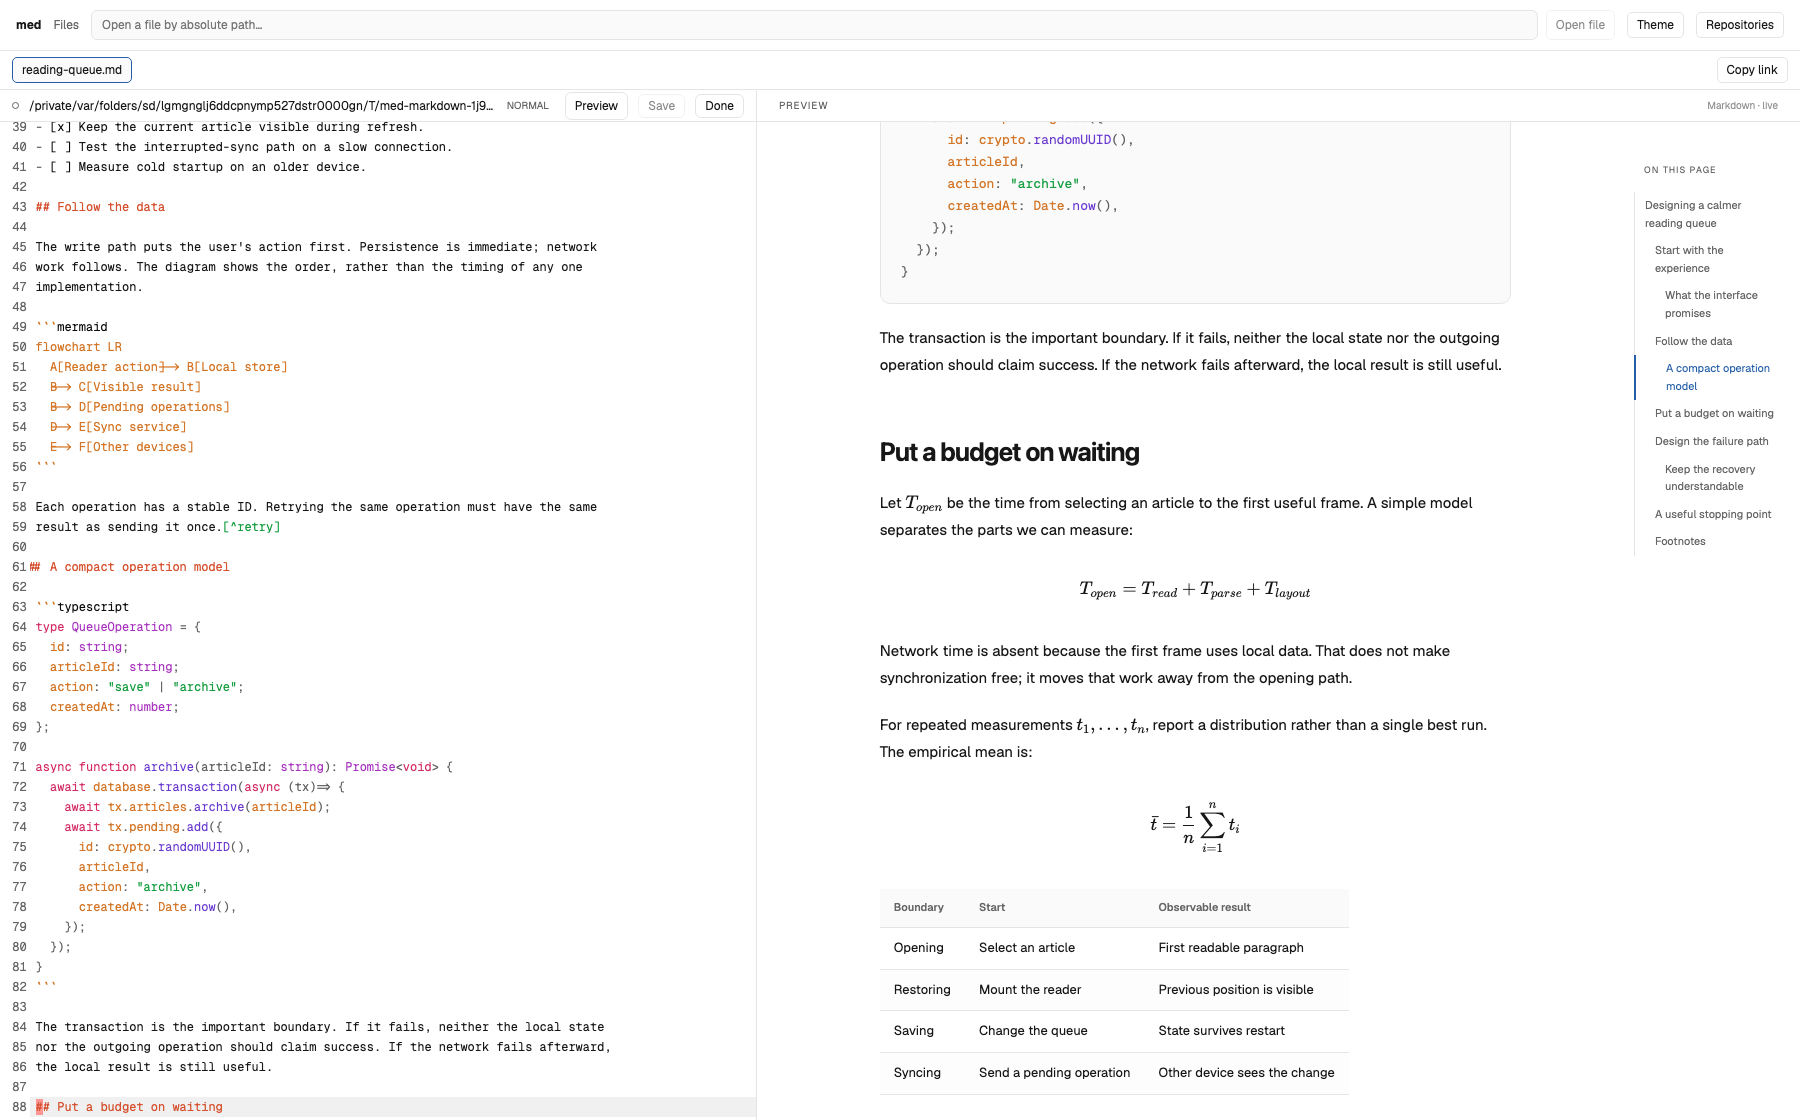
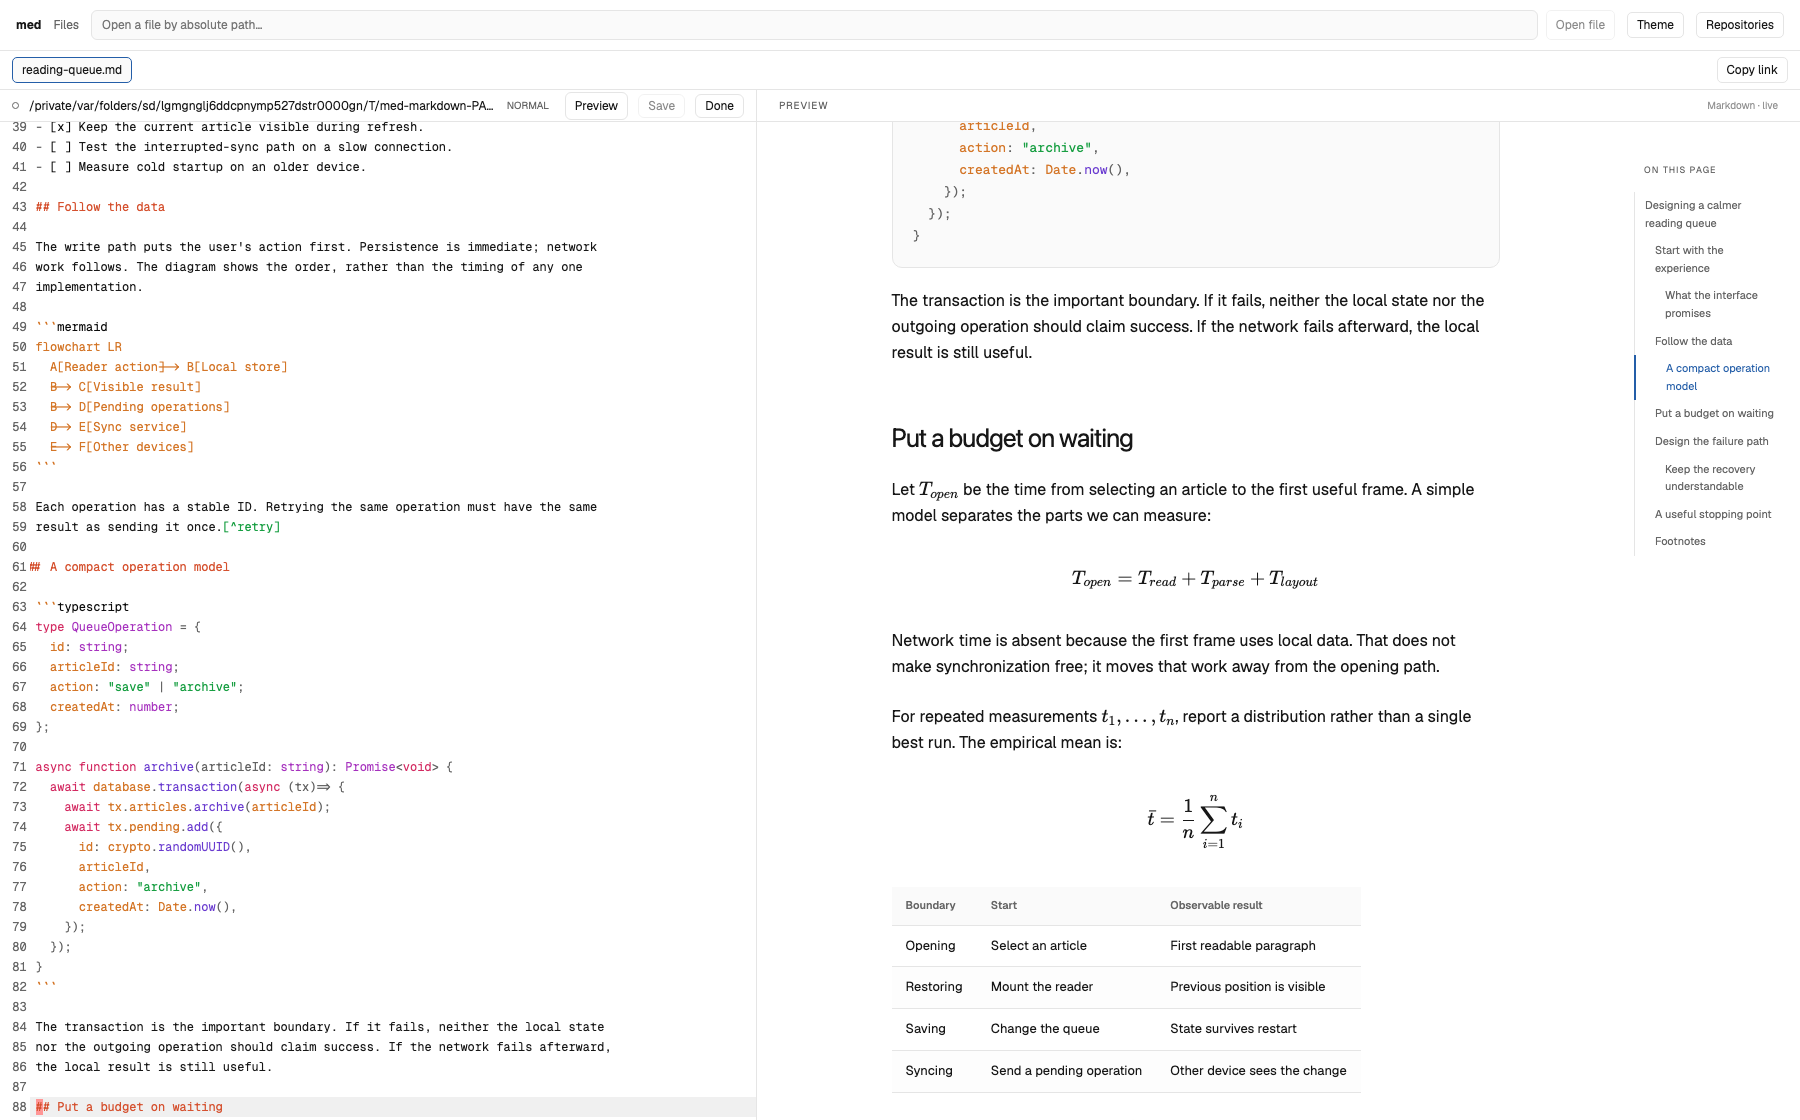
style(med): refine Markdown typography and reading width

diff --git a/apps/med/src/web/components/MarkdownPreview.css b/apps/med/src/web/components/MarkdownPreview.css
@@ -60,40 +60,43 @@
 }
 .med-md-prose {
   box-sizing: border-box;
-  max-width: 74ch;
+  --med-md-gutter: clamp(24px, 4cqw, 48px);
+  /* Keep the reading measure independent of the surrounding page padding. */
+  width: 100%;
+  max-width: calc(38em + 2 * var(--med-md-gutter));
   margin: 0 auto;
-  padding: 38px clamp(24px, 5cqw, 64px) 48px;
-  font-size: 15px;
-  line-height: 1.8;
+  padding: 38px var(--med-md-gutter) 48px;
+  font-size: 16px;
+  line-height: 1.625;
   overflow-wrap: anywhere;
 }
 .med-md-prose p {
-  margin: 0 0 1.35em;
+  margin: 0 0 1.5em;
 }
 .med-md-prose :is(h1, h2, h3, h4, h5, h6) {
   font-family: -apple-system, BlinkMacSystemFont, "SF Pro Display", "Geist", sans-serif;
   line-height: 1.22;
   letter-spacing: -0.035em;
-  font-weight: 650;
+  font-weight: 400;
   text-wrap: balance;
   scroll-margin-top: 40px;
 }
 .med-md-prose h1 {
   font-size: clamp(30px, 5cqw, 44px);
-  margin: 0 0 0.85em;
+  margin: 0 0 32px;
 }
 .med-md-prose h2 {
   font-size: 26px;
-  margin: 1.9em 0 0.8em;
-  padding-top: 0.35em;
+  margin: 56px 0 24px;
 }
 .med-md-prose h3 {
-  font-size: 20px;
-  margin: 1.6em 0 0.7em;
+  font-size: 22px;
+  margin: 40px 0 20px;
 }
 .med-md-prose :is(h4, h5, h6) {
   font-size: 16px;
-  margin: 1.5em 0 0.7em;
+  font-weight: 500;
+  margin: 32px 0 16px;
 }
 .med-md-prose a {
   color: var(--med-accent);
@@ -107,7 +110,7 @@
   text-decoration-style: dotted;
 }
 .med-md-prose strong {
-  font-weight: 650;
+  font-weight: 600;
 }
 .med-md-prose :is(ul, ol) {
   padding-left: 1.5em;

diff --git a/apps/med/docs/validation/MARKDOWN.md b/apps/med/docs/validation/MARKDOWN.md
@@ -48,3 +48,24 @@ This verifies intermediate motion rather than claiming a fixed frame rate.
 
 [Results and frame samples](markdown-scroll-results.json) ·
 [Last contents link without the gap](markdown-last-heading.png).
+
+
+## Typography follow-up
+
+The [Vercel article](https://vercel.com/blog/ai-gateway-jev-model-launch) uses
+a 684 px article column at a 1440 px viewport, 18 px body text, 28 px line height,
+and 24 px paragraph gaps. Its first two full lines contain 78 and 74 characters.
+The title uses weight 450 and the section heading uses weight 400.
+
+Med adapts these proportions to the split pane: 16 px body text, 26 px line
+height, 24 px paragraph gaps, and a maximum 608 px text column. Page padding
+is outside that limit. The sample paragraph fits 84 and 81 characters on its
+first two full lines; the count varies with the text and available pane width.
+H1–H3 use regular weight 400; explicit Markdown emphasis uses weight 600.
+Section headings have more space above than below. SF Pro headings and Geist
+body text remain in use.
+
+Build/typecheck and the production Markdown browser check passed. The check
+includes live editing, diagrams, contents navigation, smooth scroll following,
+reduced motion, saved preview preference, and the narrow layout. The light,
+dark, diagram, math and last-heading screenshots above show the updated style.
